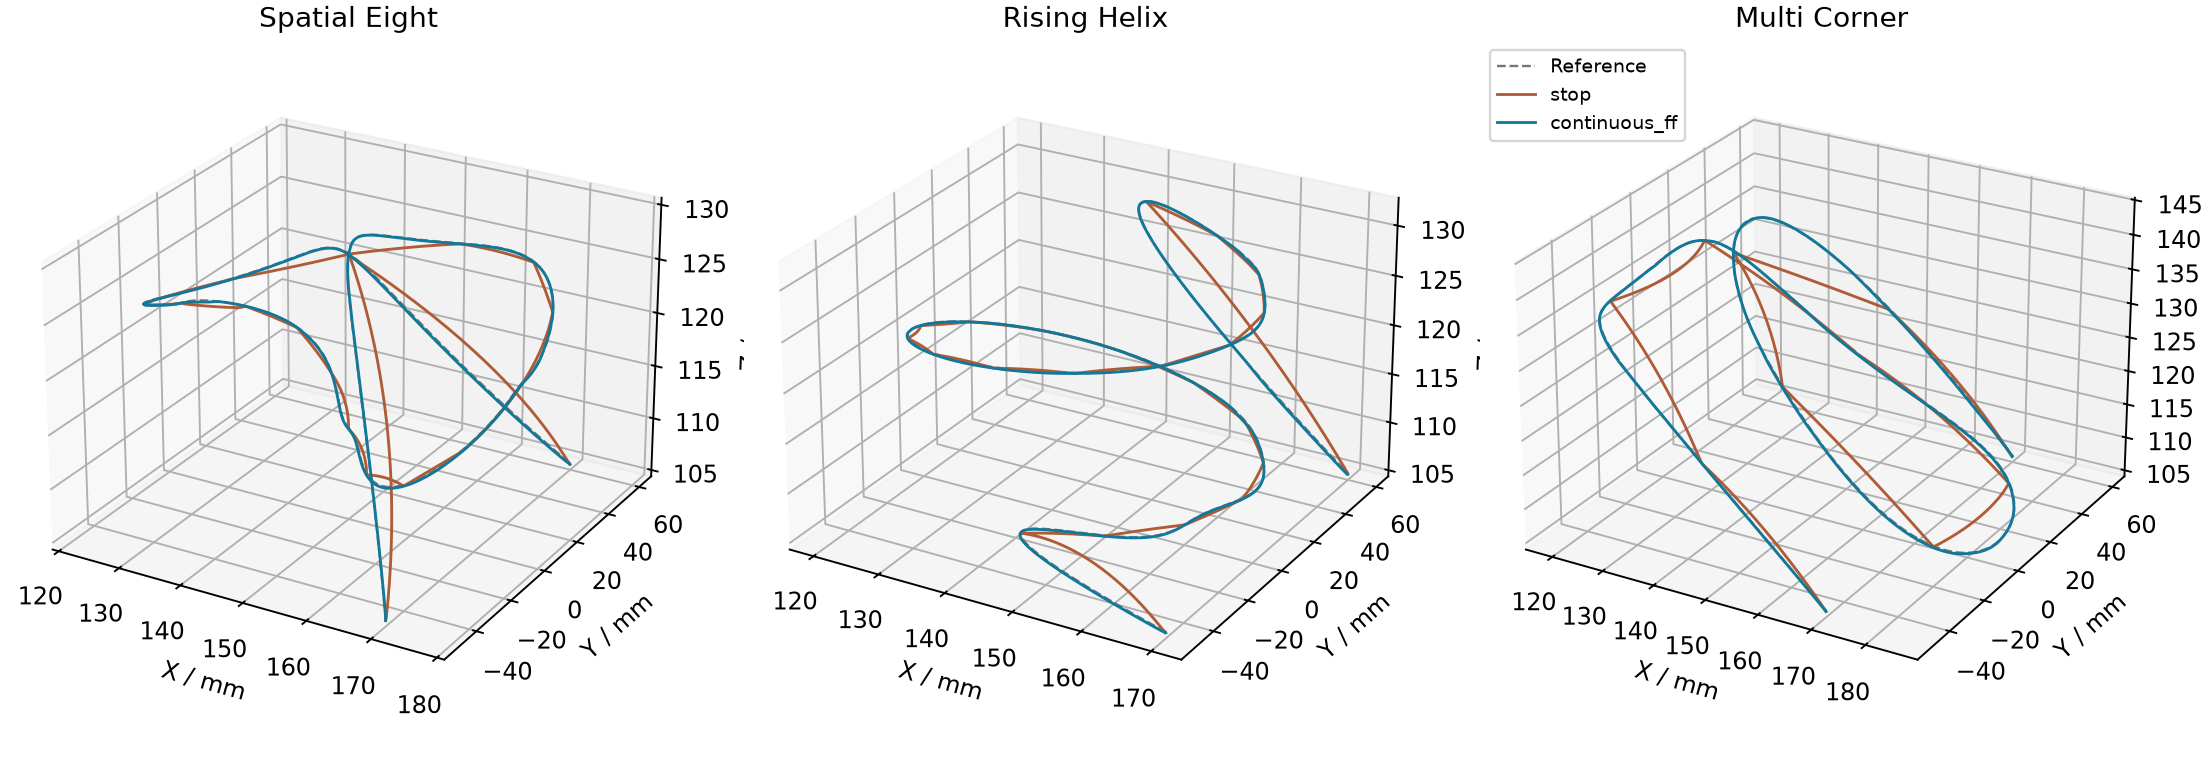
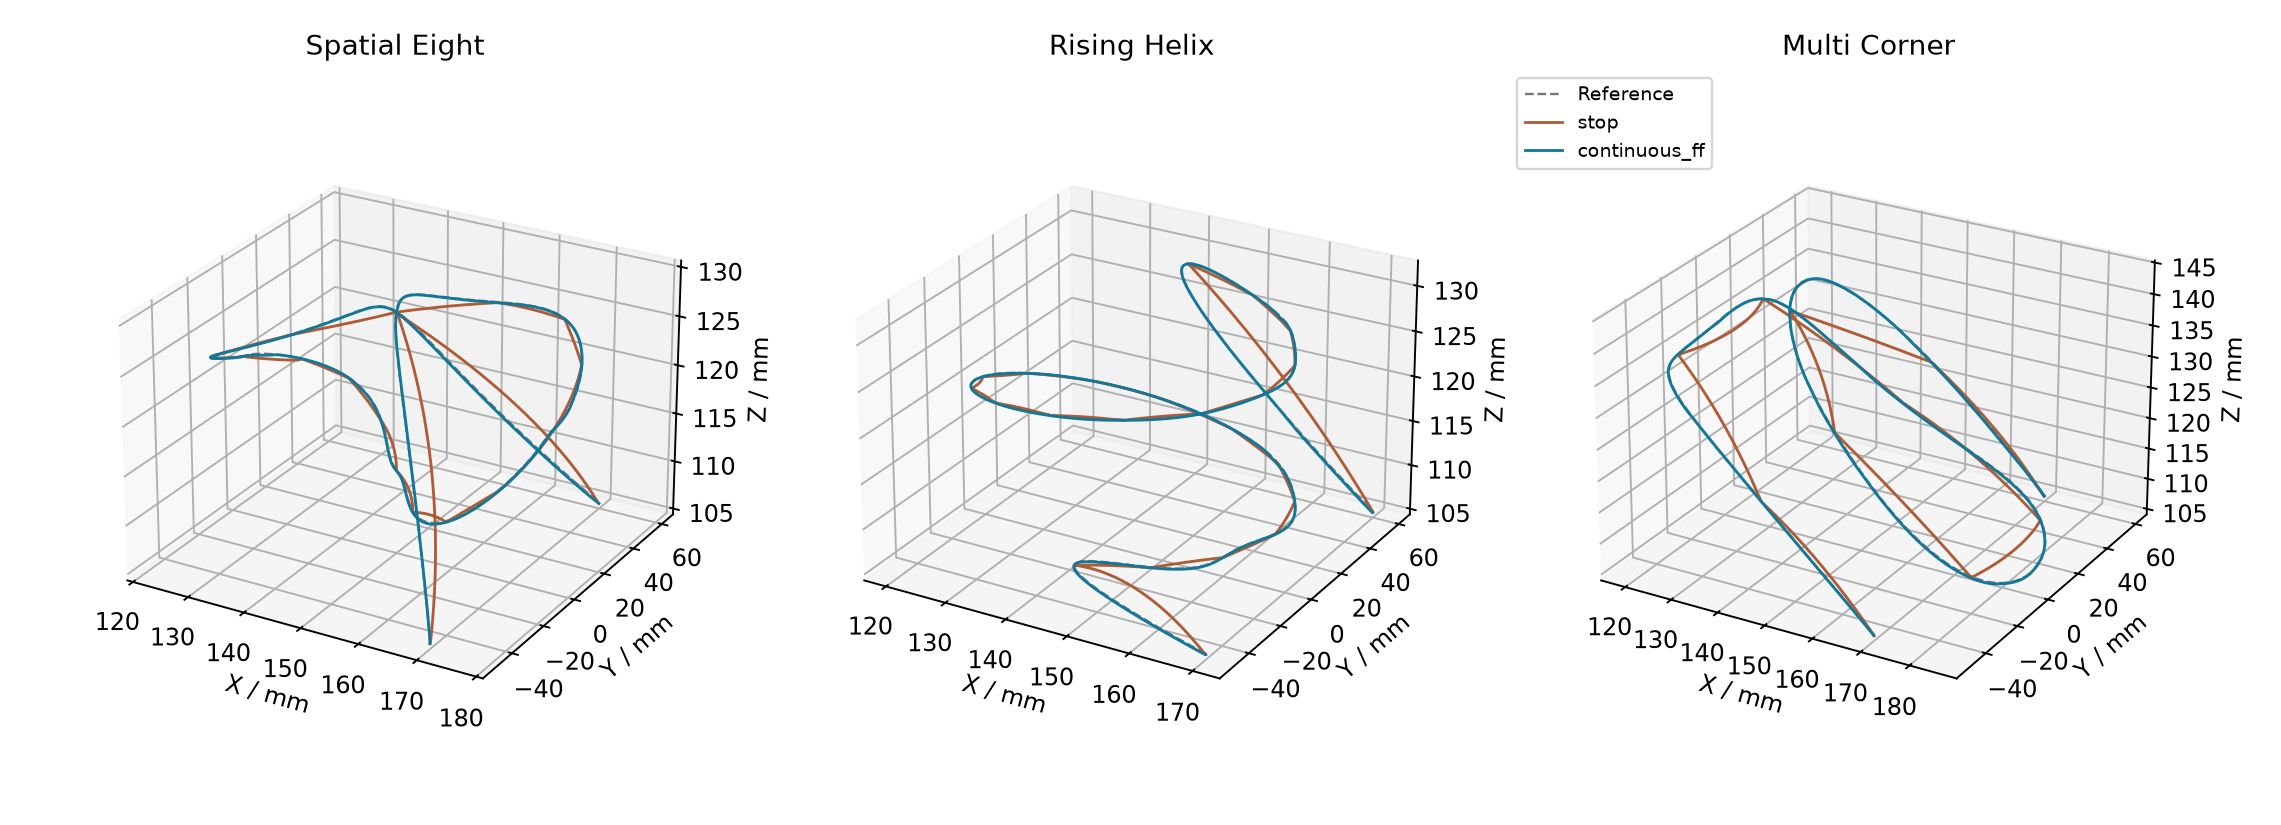
Keep trajectory plot labels inside exported figure

diff --git a/scripts/plot_continuous.py b/scripts/plot_continuous.py
@@ -25,9 +25,9 @@ def plots(output,records):
             xyz=np.array([d['tcp_'+a] for a in 'xyz'])*1000
             ax.plot(*xyz,color=colors[mode],lw=1.2,label=mode)
         ax.set(xlabel='X / mm',ylabel='Y / mm',zlabel='Z / mm',title=name.replace('_',' ').title())
-        ax.view_init(elev=25,azim=-60);ax.set_box_aspect([1,1,.7])
+        ax.view_init(elev=25,azim=-60);ax.set_box_aspect([1,1,.7],zoom=.86)
     ax.legend(fontsize=8,loc='upper left')
-    fig.savefig(output/'spatial_paths.png',dpi=170);plt.close(fig)
+    fig.savefig(output/'spatial_paths.png',dpi=170,bbox_inches='tight',pad_inches=.2);plt.close(fig)
     fig,axes=plt.subplots(2,2,figsize=(11,7),layout='constrained')
     for r in (r for r in records if r['family']=='multi_corner'):
         d=trace(output,r['name']);t=d['time']-d['time'][0];color=colors[r['variant']]
